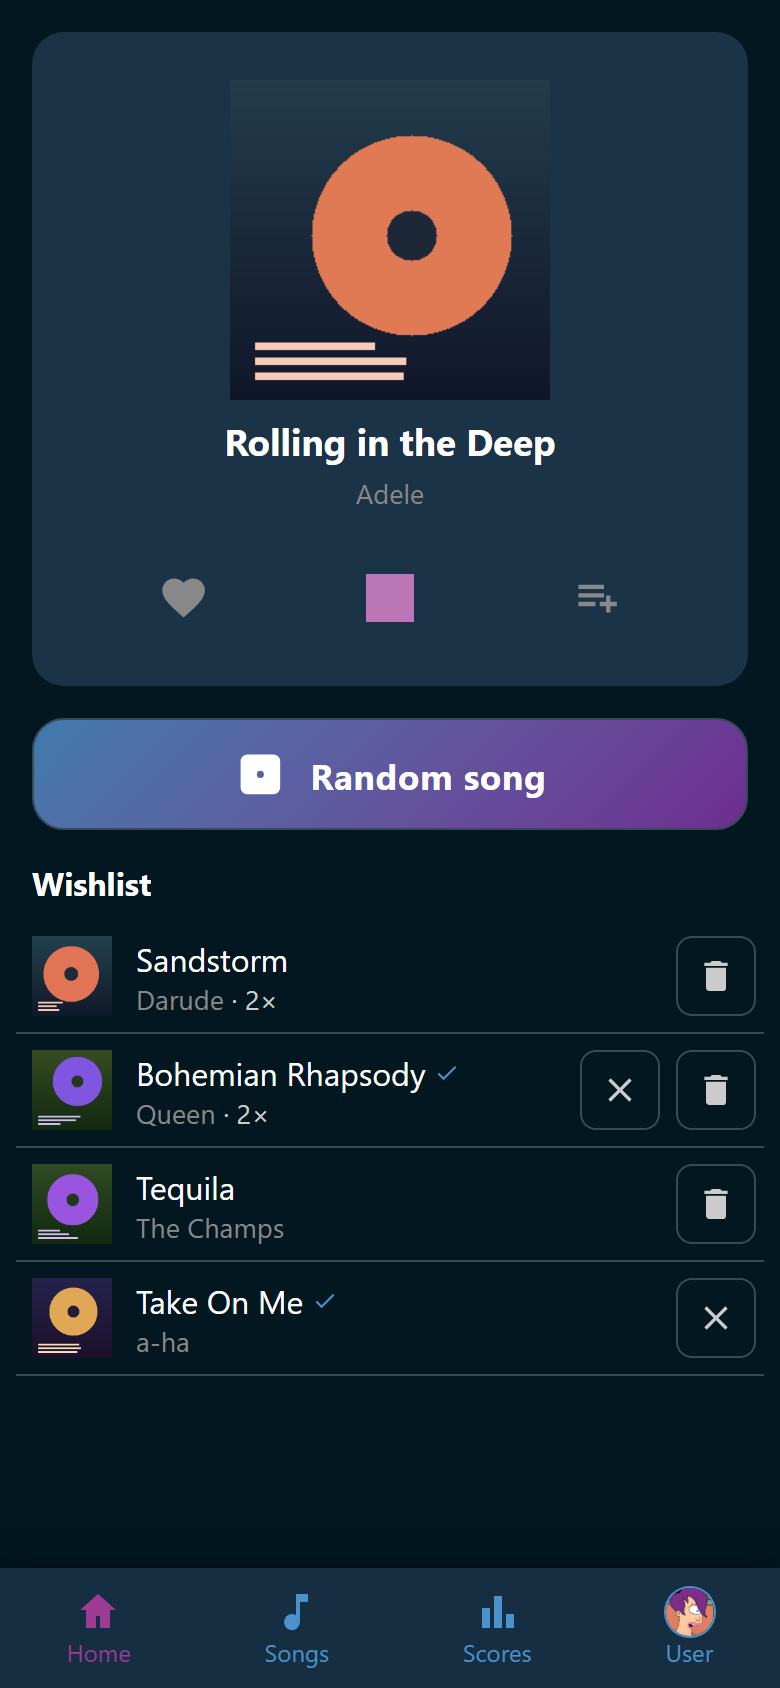
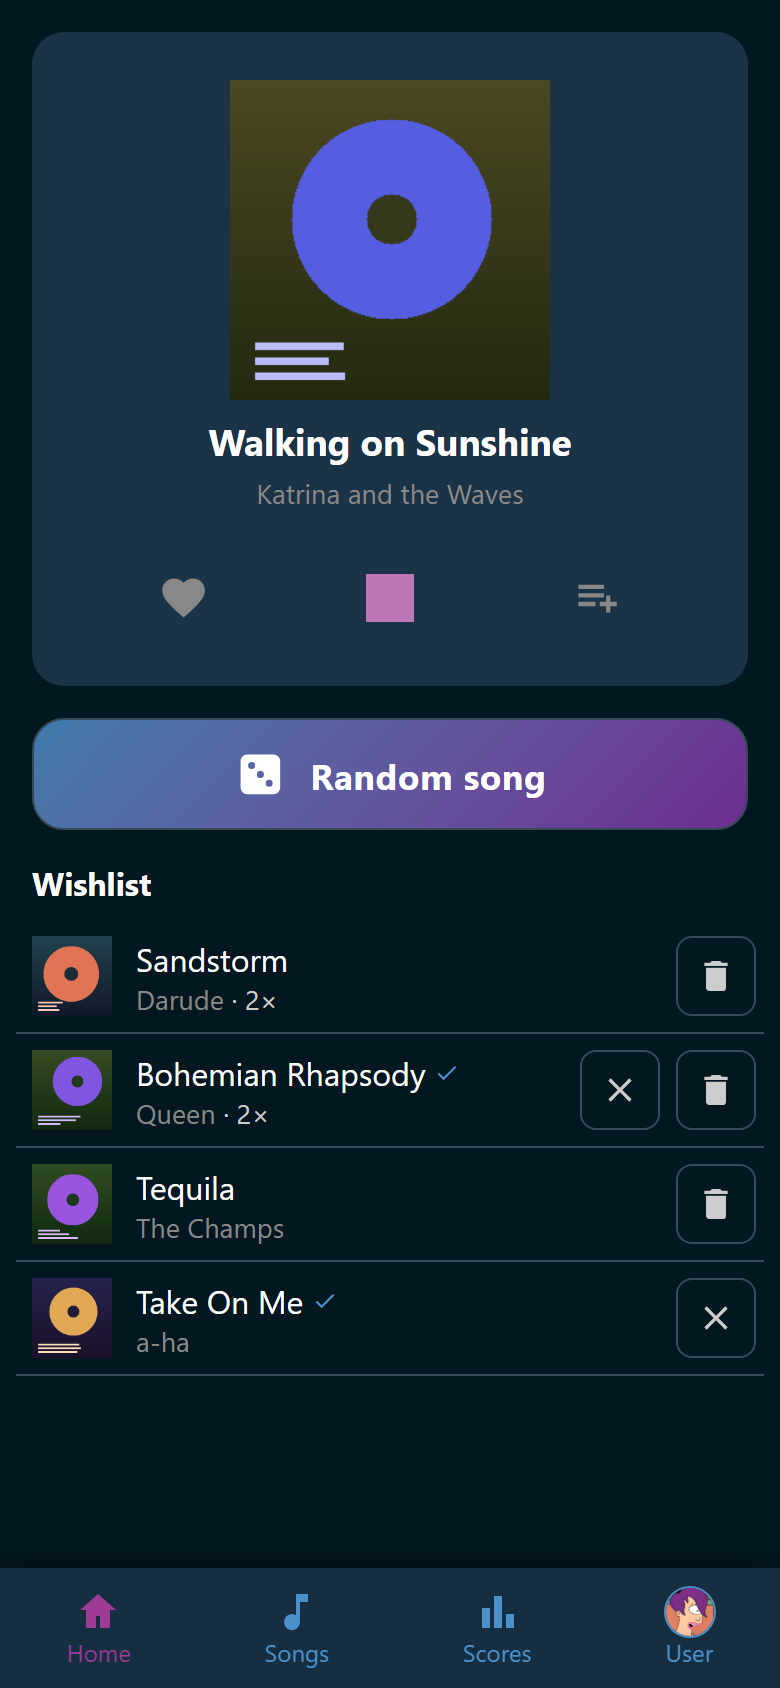
docs(screenshots): Fry sings Walking on Sunshine in the launcher pictures

Changed region(s): [[0.2769, 0.0308, 0.7385, 0.3081]]

diff --git a/docs/screenshots/capture.py b/docs/screenshots/capture.py
@@ -61,7 +61,7 @@ READY_TIMEOUT = 30.0
 LAUNCHER_TIMEOUT = 180.0
 
 # The launcher takes. Which song and which singers matters; see docs/dev/screenshots.md.
-RESULTS_SONG = 1503
+RESULTS_SONG = 1218  # Walking on Sunshine: Fry sings it, and earns nothing by it
 RESULTS_SINGERS = ("Fry", "Leela")
 BADGE_SONG = scenario.FINISHING_SONG
 BADGE_SINGER = scenario.PENDING_SINGER

diff --git a/docs/dev/documentation.md b/docs/dev/documentation.md
@@ -433,10 +433,11 @@ own library, names, and scores never appear.
   those players keep the app's own initials avatar.
 - The folder is gitignored, so the pictures never enter the repository. `docs/.gitignore`
   carries the rule.
-- The song list is about 40 plausible entries. Four of them are fixed Easter eggs.
+- The song list is about 40 plausible entries. Five of them are fixed Easter eggs.
   "Sandstorm" by Darude and "Tequila" by The Champs are both terrible karaoke songs, and both
   are wished for. "Rap God" by Eminem carries an implausible 9,842 for Bender. The one duet is
-  "I Got You Babe" by Sonny and Cher, sung by Fry and Leela.
+  "I Got You Babe" by Sonny and Cher, sung by Fry and Leela. "Walking on Sunshine" by Katrina
+  and the Waves is the song Fry sings on the TV in the launcher pictures.
 - Scores are believable otherwise: most between 3,000 and 8,000, Zoidberg last.
 - Two parties, not one. An older one from a week ago, and the one going tonight. A singer
   needs a history before "All my scores" and a progress bar mean anything. The Scores page

diff --git a/docs/user/host-screen/index.md b/docs/user/host-screen/index.md
@@ -67,7 +67,7 @@ played against the song's length, a progress bar, and every singer on the color
 of their microphone. The rail carries on beside it, so the QR code and the
 standing stay up the whole time.
 
-![The host screen while Rolling in the Deep plays, with the cover, the elapsed time, a progress bar, and Fry and Leela on their colors](../assets/screenshots/host-screen/host-playing.png){ width="720" loading=lazy }
+![The host screen while Walking on Sunshine plays, with the cover, the elapsed time, a progress bar, and Fry and Leela on their colors](../assets/screenshots/host-screen/host-playing.png){ width="720" loading=lazy }
 /// caption
 Fry sings on blue and Leela on red, the colors they were given.
 ///

diff --git a/docs/user/party/sing.md b/docs/user/party/sing.md
@@ -60,7 +60,7 @@ title, the artist, and the buttons under them. The elapsed time and the singers
 are not repeated there, because the Ultrastar Deluxe screen in the same room
 already shows both.
 
-![Home while Rolling in the Deep by Adele plays, with its cover and the song controls where the Wingman tile usually is](../assets/screenshots/party/home-playing.png){ width="320" loading=lazy }
+![Home while Walking on Sunshine by Katrina and the Waves plays, with its cover and the song controls where the Wingman tile usually is](../assets/screenshots/party/home-playing.png){ width="320" loading=lazy }
 /// caption
 The wishlist stays below the stage, so the room can keep reading it.
 ///

diff --git a/docs/user/scores/index.md b/docs/user/scores/index.md
@@ -19,7 +19,7 @@ counts toward nothing else. See [Sing a song](../party/sing.md).
 
 The host screen puts the result of the song that just finished on the TV.
 
-![The host screen after Rolling in the Deep, with Fry on 7,900 marked New Highscore and Leela on 5,730 under the song's own figures](../assets/screenshots/scores/host-results.png){ width="720" loading=lazy }
+![The host screen after Walking on Sunshine, with Fry's score marked New Highscore and Leela's under it, beside the song's own figures](../assets/screenshots/scores/host-results.png){ width="720" loading=lazy }
 /// caption
 The four figures on the left are the song's whole record, not tonight's.
 ///

diff --git a/docs/dev/screenshots.md b/docs/dev/screenshots.md
@@ -98,7 +98,7 @@ program for a screenshot. `docs/screenshots/standin_usdx.py` takes its place, an
 The stand-in holds the song until a sentinel file appears, which is what lets a picture
 be taken of a song that is playing. `capture.py` runs two takes:
 
-1. Fry and Leela sing a song from 2010, which earns nobody anything. `home-playing` and
+1. Fry and Leela sing "Walking on Sunshine", which earns nobody anything. `home-playing` and
    `host-playing` are taken while it holds. Then the song is released, and the results
    appear at once, which is `host-results`.
 2. The history is rewound, and Bender sings a song from the eighties on his own. That
